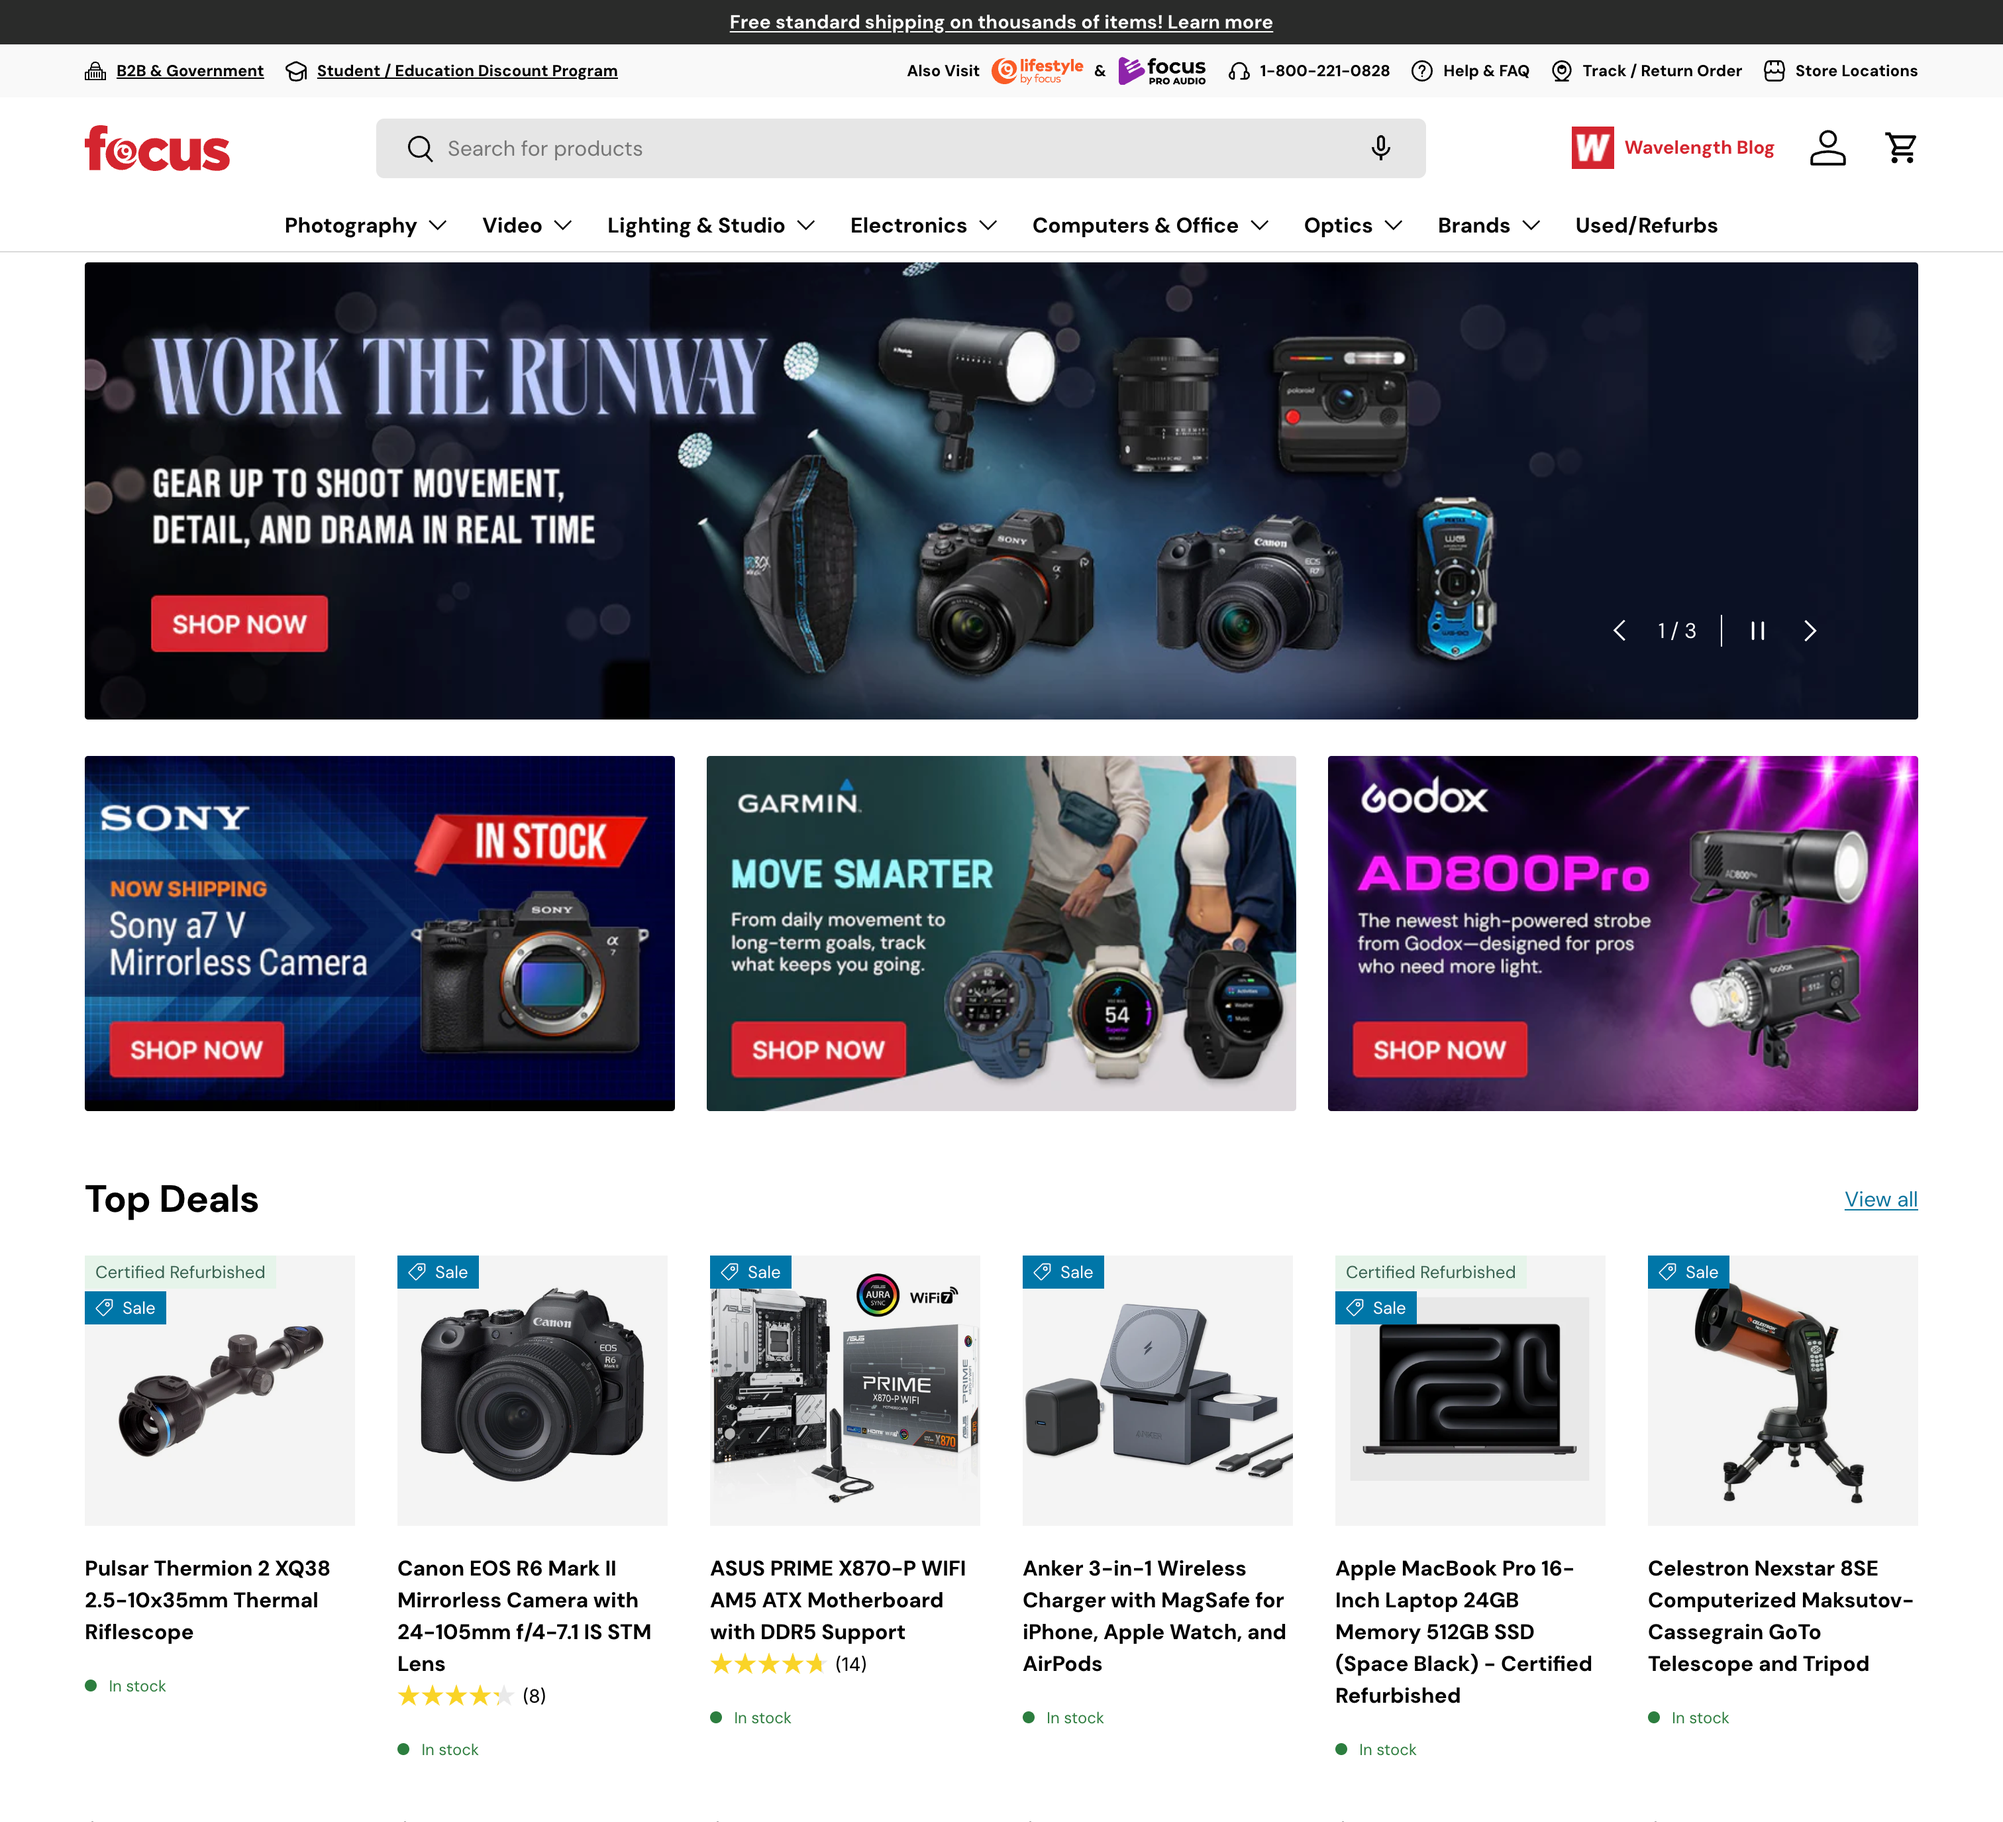
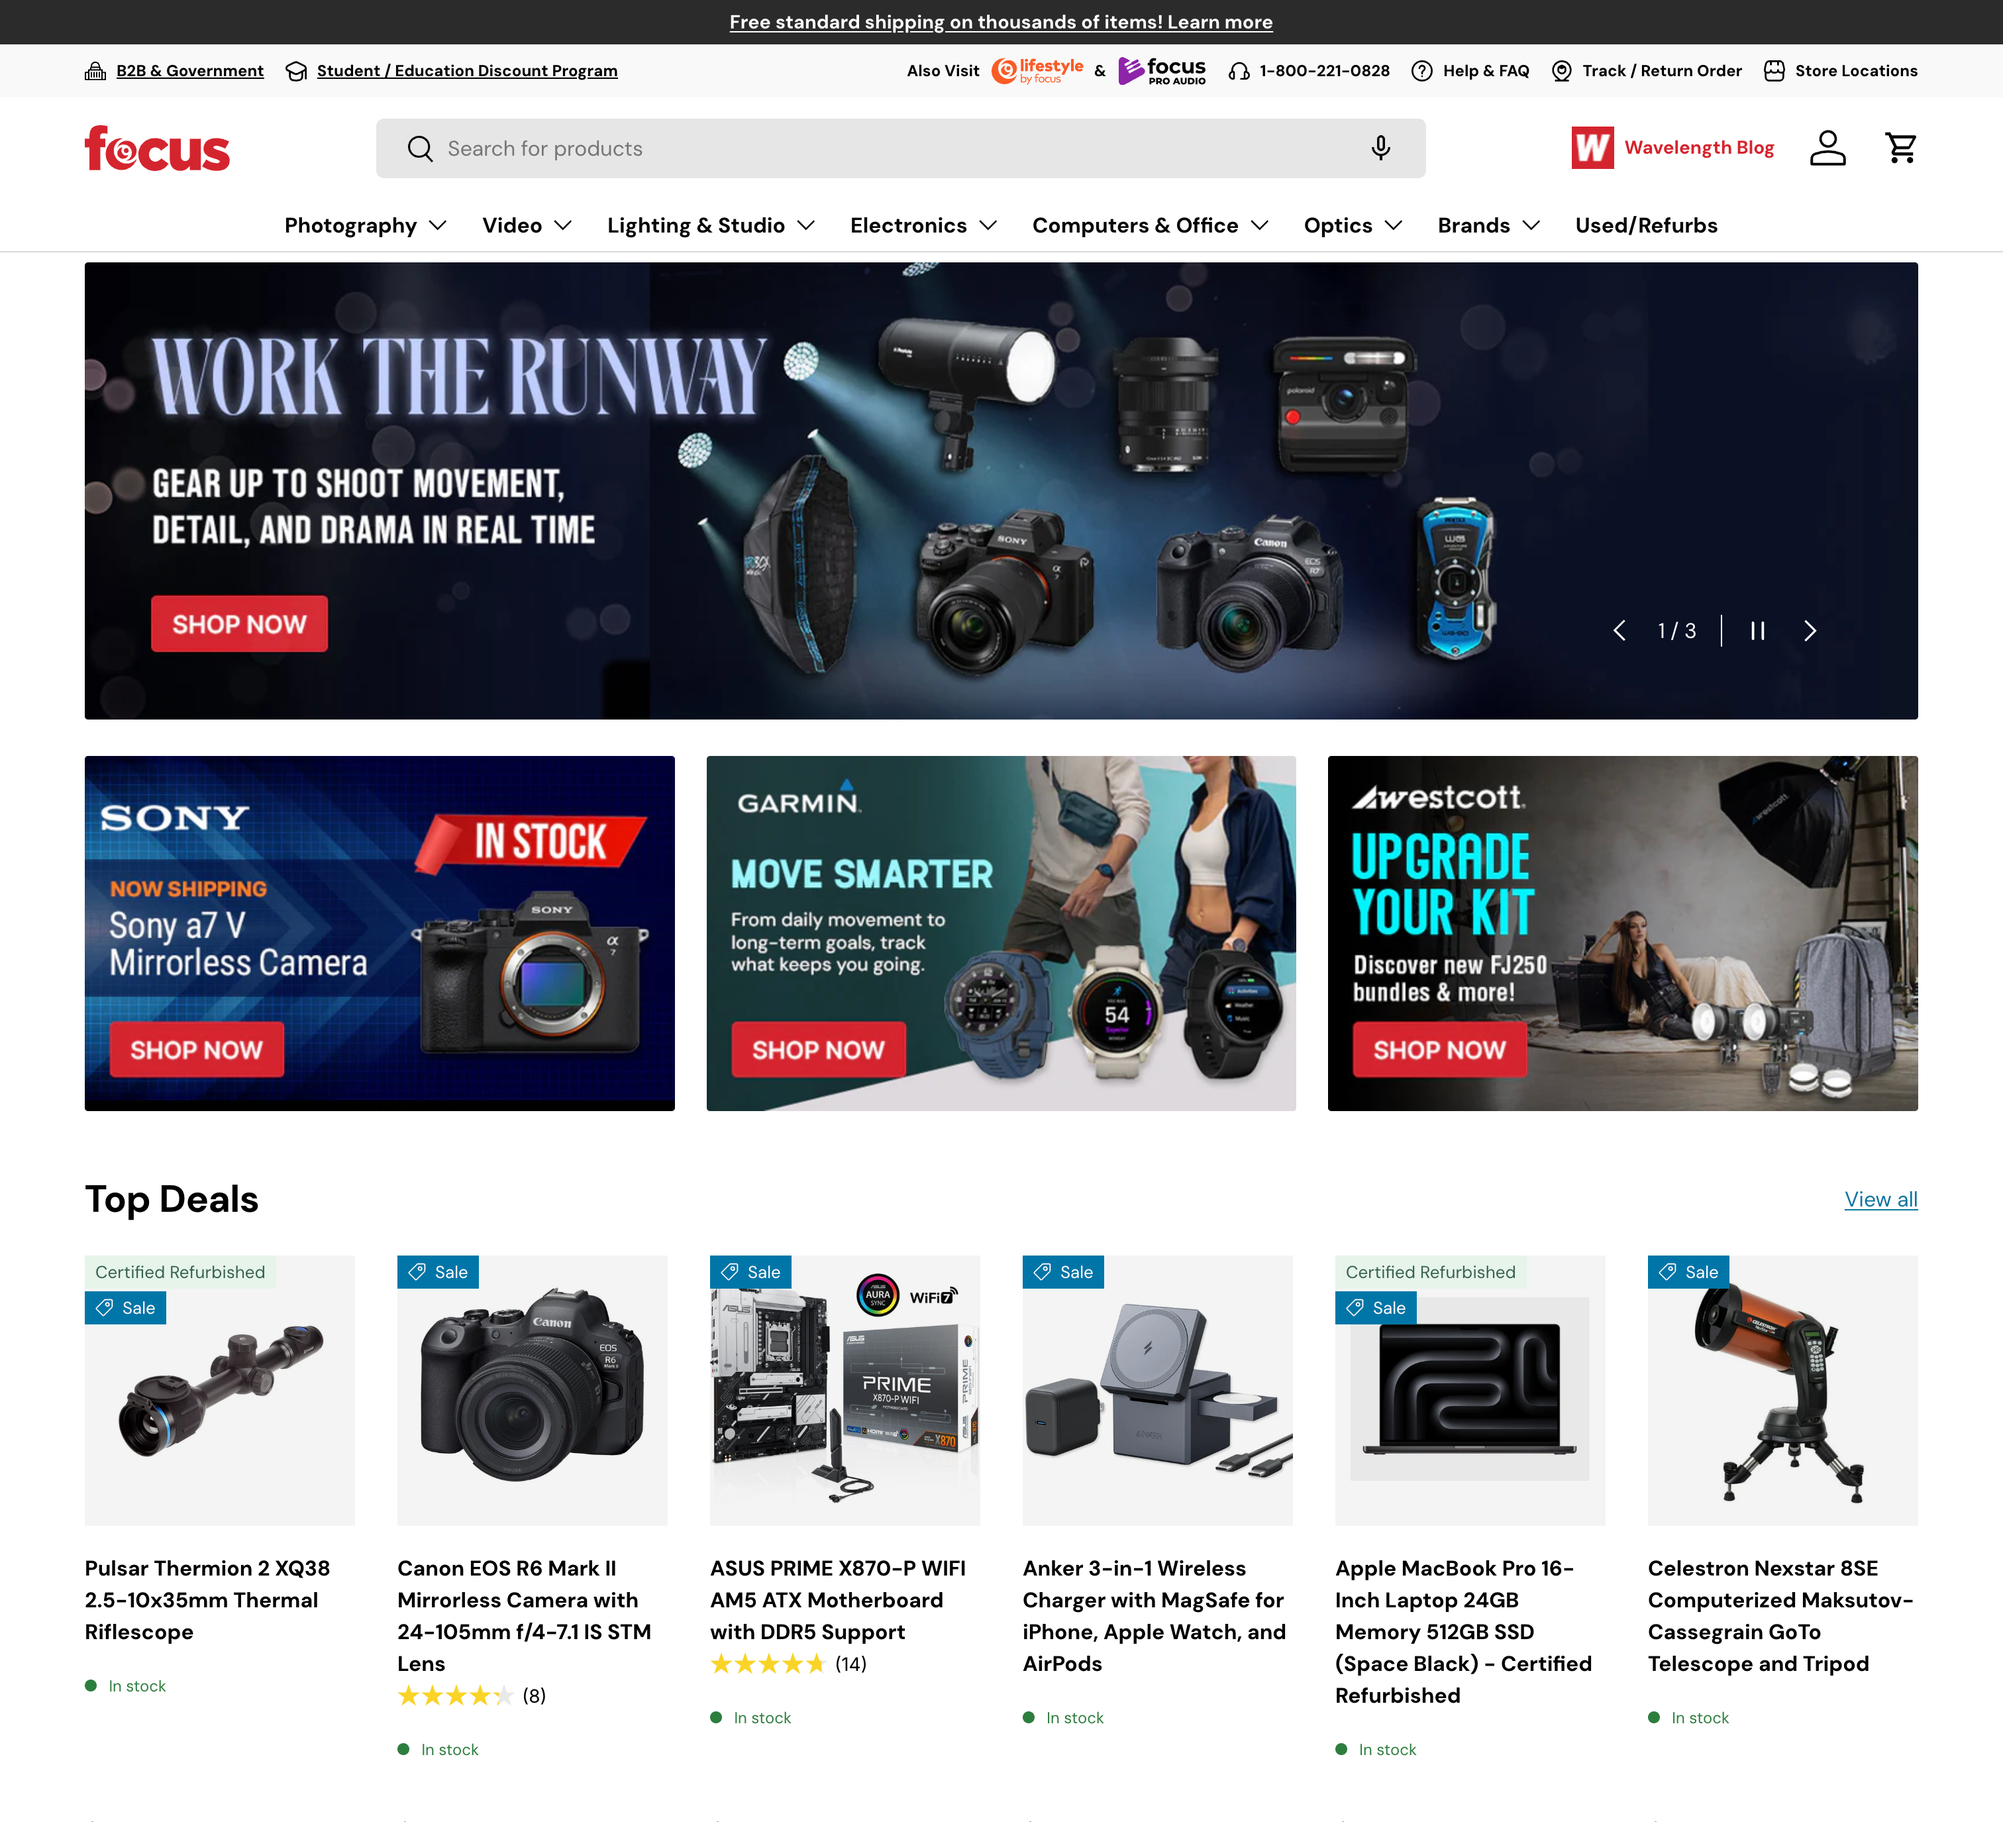
fc-17/18

Changed region(s): [[0.6528, 0.4018, 0.9636, 0.6182]]

diff --git a/Focus-Camera/FC-WebBanners/index.html b/Focus-Camera/FC-WebBanners/index.html
@@ -112,11 +112,19 @@
             </div>
             <div class="gallery-item">
                 <img src="imgs/web-banners/FC-15.png" alt="FC Web Banner 15" onclick="openFullscreen(this)">
-                <span class="gallery-item-title">Fashion Week Campaign<br>Sony</span>
+                <span class="gallery-item-title">Fashion Week Campaign<br>Sony<br>Westcott</span>
             </div>
             <div class="gallery-item">
                 <img src="imgs/web-banners/FC-16.png" alt="FC Web Banner 16" onclick="openFullscreen(this)">
                 <span class="gallery-item-title">Fujifilm x American Dream Giveaway<br>Nanlite</span>
+            </div>
+            <div class="gallery-item">
+                <img src="imgs/web-banners/FC-17.png" alt="FC Web Banner 17" onclick="openFullscreen(this)">
+                <span class="gallery-item-title">Capture the Winning Shot Campaign</span>
+            </div>
+            <div class="gallery-item">
+                <img src="imgs/web-banners/FC-18.png" alt="FC Web Banner 18" onclick="openFullscreen(this)">
+                <span class="gallery-item-title">Real Life, Real Moments Campaign</span>
             </div>
 
             <div class="gallery-item">
